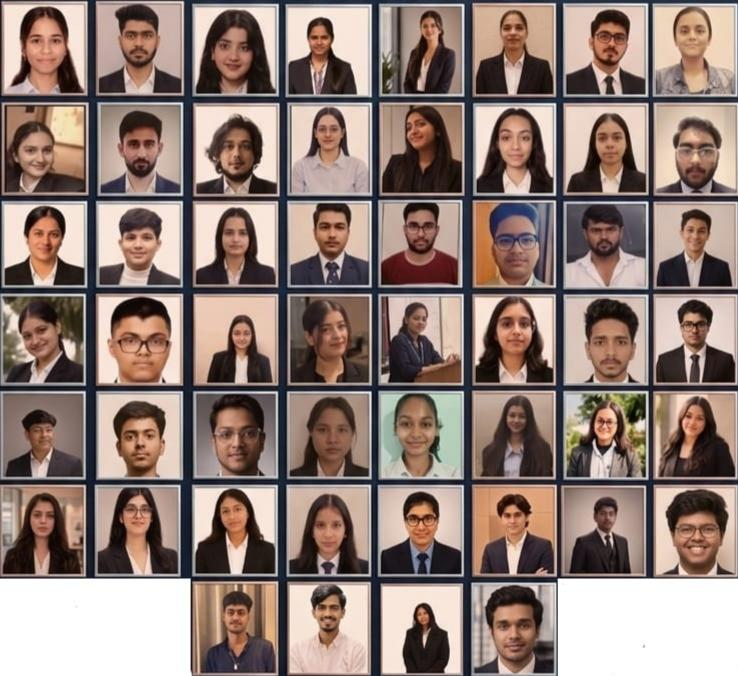
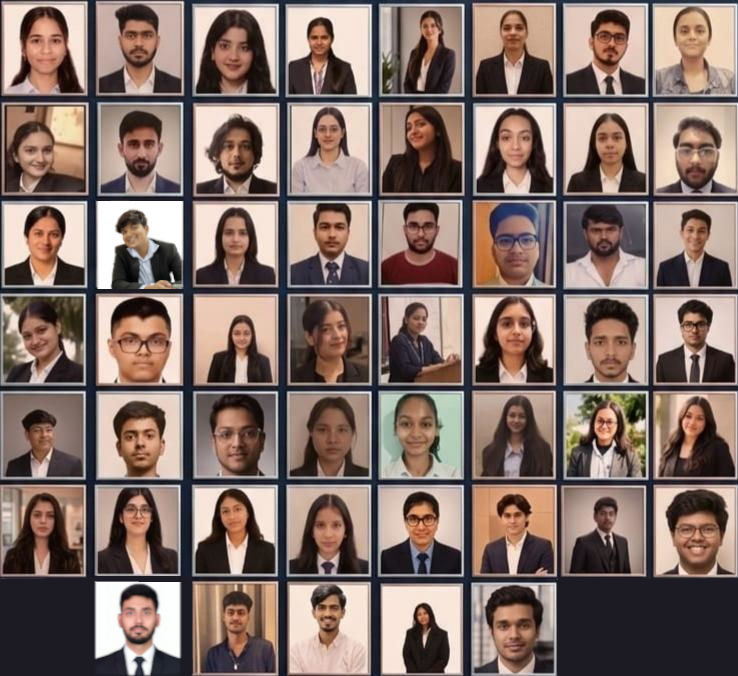
feat: revamp team pages — leadership grid, enterprise team, designations

Changed region(s): [[0.748, 0.8388, 1.0, 1.0], [0.0, 0.8388, 0.2805, 1.0], [0.1247, 0.2796, 0.2493, 0.4349]]

diff --git a/src/components/sections/about/MeetOurTeam/index.jsx b/src/components/sections/about/MeetOurTeam/index.jsx
@@ -12,19 +12,9 @@ const corporateTeam = [
     image: '/images/about/team/pk-singh.jpeg'
   },
   {
-    name: 'Adv. Gaurav Bhardwaj',
-    role: 'Board Advisor, Legal – Indus Group (Adv. Supreme Court of India)',
-    image: '/images/about/team/gaurav-bhardwaj.jpeg'
-  },
-  {
     name: 'Debdutta Ghosh',
     role: 'Group CHRO',
     image: '/images/about/team/debdutta-ghosh.jpeg'
-  },
-  {
-    name: 'Dr.Vijay Prakash Sharma',
-    role: 'Group Advisor- Business Strategy',
-    image: '/images/about/team/vijay-sharma.jpeg'
   },
   {
     name: 'Shruti Singh',
@@ -32,19 +22,30 @@ const corporateTeam = [
     image: '/images/about/team/shruti-singh.jpeg'
   },
   {
-    name: 'Dr. Tannu',
-    role: 'Advisor',
-    image: '/images/about/team/tannu.jpeg'
-  },
-  {
-    name: 'Dr. K.R. Madhar',
-    role: 'Strategic Advisor - Board',
+    name: 'Dr. K.R. Madhar (I.R.S. Retd.)',
+    role: 'Advocate, High Court, Delhi; Former Additional Commissioner of Customs and GST',
     image: '/images/about/team/kr-madhar.jpeg'
   },
   {
     name: 'Mr. Kailash Chand',
-    role: 'Strategic Board- Advisor',
+    role: 'Advocate, Former Assistant Commissioner of Customs & GST (retd.)',
     image: '/images/about/team/kailash-chand.jpeg'
+  },
+  {
+    name: 'Adv. Gaurav Bhardwaj',
+    role: 'Board Advisor, Legal (Adv. Supreme Court of India)',
+    image: '/images/about/team/gaurav-bhardwaj.jpeg'
+  },
+  {
+    name: 'Dr.Vijay Prakash Sharma',
+    role: 'Group Advisor- Business Strategy',
+    image: '/images/about/team/vijay-sharma.jpeg'
+  },
+  {
+    name: 'Dr. Tanu Manocha',
+    role: 'Strategic Board Advisor, Operations',
+    image: '/images/about/team/tannu.jpeg',
+    objectPosition: 'object-center'
   }
 ]
 
@@ -58,19 +59,19 @@ export function MeetOurTeam() {
           <div className="flex items-center justify-center gap-3 mb-4">
             <div className="w-6 h-[2px] bg-blue-600" />
             <span className="text-blue-600 text-xs font-bold tracking-[0.2em] uppercase font-heading">
-              Our Experts
+              Leadership
             </span>
           </div>
           <h2 className="text-3xl font-bold tracking-tight text-slate-900 sm:text-4xl font-heading">
-            Meet Our Team
+            Our Leadership
           </h2>
           <p className="mt-3 text-base text-slate-600 leading-relaxed">
             The dedicated experts driving operational excellence, design strategy, and market analysis across our divisions.
           </p>
         </div>
 
-        {/* Responsive Grid Structure */}
-        <div className="grid grid-cols-1 md:grid-cols-2 lg:grid-cols-3 gap-8">
+        {/* Grid Structure */}
+        <div className="grid grid-cols-4 gap-8">
           {corporateTeam.map((member) => (
             <div
               key={member.name}
@@ -82,7 +83,7 @@ export function MeetOurTeam() {
                   src={member.image}
                   alt={member.name}
                   fill
-                  className="object-cover object-top"
+                  className={`object-cover ${member.objectPosition || 'object-top'}`}
                   sizes="(max-width: 768px) 100vw, 350px"
                 />
               </div>
@@ -92,11 +93,14 @@ export function MeetOurTeam() {
                 <h3 className="text-lg font-bold text-slate-800 mb-1.5 font-heading">
                   {member.name}
                 </h3>
-                <p className="text-sm font-semibold text-blue-600 px-2 leading-relaxed">
+                <p className="text-sm font-semibold text-blue-600 px-2 leading-relaxed text-center whitespace-pre-line">
                   {member.role}
                 </p>
               </div>
             </div>
+          ))}
+          {Array.from({ length: (4 - (corporateTeam.length % 4)) % 4 }).map((_, i) => (
+            <div key={`empty-${i}`} className="rounded-2xl border border-slate-100 bg-white" />
           ))}
         </div>
 

diff --git a/src/components/sections/team/teamData.js b/src/components/sections/team/teamData.js
@@ -12,21 +12,9 @@ export const teamMembers = [
     group: 'Core Team',
   },
   {
-    name: 'Adv. Gaurav Bhardwaj',
-    role: 'Board Advisor, Legal',
-    image: '/images/team/gaurav-bhardwaj.jpg',
-    group: 'Core Team',
-  },
-  {
     name: 'Debdutta Ghosh',
     role: 'Group CHRO',
     image: '/images/team/debdutta-ghosh.jpeg',
-    group: 'Core Team',
-  },
-  {
-    name: 'Dr. Vijay Prakash Sharma',
-    role: 'Group Advisor - Business Strategy',
-    image: '/images/team/vijay-prakash-sharma.jpeg',
     group: 'Core Team',
   },
   {
@@ -36,21 +24,69 @@ export const teamMembers = [
     group: 'Core Team',
   },
   {
-    name: 'Mr. Kailash Chand',
-    role: 'Strategic Board Advisor',
-    image: '/images/team/kailash-chand.jpg',
-    group: 'Core Team',
-  },
-  {
-    name: 'Dr. K.R. Madhar',
-    role: 'Strategic Board Advisor',
+    name: 'Dr. K.R. Madhar (I.R.S. Retd.)',
+    role: 'Advocate, High Court, Delhi; Former Additional Commissioner of Customs and GST',
     image: '/images/team/kr-madhar.jpg',
     group: 'Core Team',
   },
   {
+    name: 'Mr. Kailash Chand',
+    role: 'Advocate, Former Assistant Commissioner of Customs & GST (retd.)',
+    image: '/images/team/kailash-chand.jpg',
+    group: 'Core Team',
+  },
+  {
+    name: 'Adv. Gaurav Bhardwaj',
+    role: 'Board Advisor, Legal (Adv. Supreme Court of India)',
+    image: '/images/team/gaurav-bhardwaj.jpg',
+    group: 'Core Team',
+  },
+  {
+    name: 'Dr. Vijay Prakash Sharma',
+    role: 'Group Advisor- Business Strategy',
+    image: '/images/team/vijay-prakash-sharma.jpeg',
+    group: 'Core Team',
+  },
+  {
     name: 'Dr. Tanu Manocha',
-    role: 'Academician and Strategic Board Advisor',
+    role: 'Strategic Board Advisor, Operations',
     image: '/images/team/tanu-manocha.jpeg',
     group: 'Core Team',
+  },
+  {
+    name: 'Abhishek Chaudhary',
+    role: 'Team Lead - Tech',
+    image: '/images/businesses/enterprise/team/abhishek.png',
+    group: 'Enterprise Team',
+  },
+  {
+    name: 'Moazzam Ahmed Siddiqui',
+    role: 'Team Lead - AI & ML',
+    image: '/images/businesses/enterprise/team/moazzam.png',
+    group: 'Enterprise Team',
+  },
+  {
+    name: 'Ananya Singh',
+    role: 'Team Lead - Legal',
+    image: '/images/businesses/enterprise/team/ananya.png',
+    group: 'Enterprise Team',
+  },
+  {
+    name: 'Ujjwal Rawat',
+    role: 'Team Lead - Full Stack',
+    image: '/images/businesses/enterprise/team/ujjwal.png',
+    group: 'Enterprise Team',
+  },
+  {
+    name: 'Ishu Dagar',
+    role: 'Team Lead - Digital Marketing',
+    image: '/images/businesses/enterprise/team/ishu.png',
+    group: 'Enterprise Team',
+  },
+  {
+    name: 'Adarsh Kumar Singh',
+    role: 'Team Lead - HR',
+    image: '/images/businesses/enterprise/team/adarsh.jpeg',
+    group: 'Enterprise Team',
   },
 ]

diff --git a/src/components/sections/team/TeamGrid/index.jsx b/src/components/sections/team/TeamGrid/index.jsx
@@ -1,9 +1,9 @@
-import Image from 'next/image'
 import { SectionHeading } from '@/components/ui/SectionHeading'
 import { TeamMemberCard } from '@/components/sections/team/TeamMemberCard'
 import { teamMembers } from '@/components/sections/team/teamData'
 
 const coreTeam = teamMembers.filter((m) => m.group === 'Core Team')
+const enterpriseTeam = teamMembers.filter((m) => m.group === 'Enterprise Team')
 
 export function TeamGrid() {
   return (
@@ -15,29 +15,28 @@ export function TeamGrid() {
             label="Leadership"
             title="Core Team"
           />
-          <div className="grid grid-cols-1 sm:grid-cols-2 lg:grid-cols-3 xl:grid-cols-4 gap-8">
+          <div className="grid grid-cols-4 gap-8">
             {coreTeam.map((member) => (
               <TeamMemberCard key={member.name} member={member} />
+            ))}
+            {Array.from({ length: (4 - (coreTeam.length % 4)) % 4 }).map((_, i) => (
+              <div key={`empty-${i}`} className="rounded-2xl border border-blue-100 bg-white" />
             ))}
           </div>
         </div>
       </section>
 
-      {/* Team */}
+      {/* Enterprise Team */}
       <section className="section-padding bg-blue-50">
         <div className="max-w-7xl mx-auto px-4 sm:px-6 lg:px-8">
           <SectionHeading
             label="2026 Batch"
             title="Our Team"
           />
-          <div className="flex justify-center">
-            <Image
-              src="/images/team/interns-2026.jpeg"
-              alt="Indus Group 2026 Interns"
-              width={800}
-              height={1000}
-              className="rounded-2xl shadow-lg w-full max-w-2xl"
-            />
+          <div className="grid grid-cols-3 gap-8">
+            {enterpriseTeam.map((member) => (
+              <TeamMemberCard key={member.name} member={member} />
+            ))}
           </div>
         </div>
       </section>

diff --git a/src/app/businesses/enterprise-solutions/page.jsx b/src/app/businesses/enterprise-solutions/page.jsx
@@ -13,14 +13,6 @@ const stepsData = [
   { num: '03 Step', text: 'We get together and draft a working plan to take your startup to new heights.' }
 ]
 
-const teamData = [
-  { name: 'Abhishek Chaudhary', role: 'Team Lead - Tech', image: '/images/businesses/enterprise/team/abhishek.png' },
-  { name: 'Moazzam Ahmed Siddiqui', role: 'Team Lead - AI & ML', image: '/images/businesses/enterprise/team/moazzam.png' },
-  { name: 'Ananya Singh', role: 'Team Lead-Legal', image: '/images/businesses/enterprise/team/ananya.png' },
-  { name: 'Ujjwal Rawat', role: 'Team Lead - Full Stack', image: '/images/businesses/enterprise/team/ujjwal.png' },
-  { name: 'Ayushi Upadhyay', role: 'Full Stack Developer', image: '/images/businesses/enterprise/team/ayushi.png' }
-]
-
 const servicesTableData = [
   { id: '1. Incorporation of Start-up', desc: 'Guidance on starting a business under the Start up India initiative, including strategic consulting for both new and growing start-ups.' },
   { id: '2. Corporate Compliances', desc: 'Ensuring that the company adheres to statutory regulations and requirements. This includes filing annual returns, maintaining statutory registers, and complying with corporate laws.' },
@@ -64,7 +56,7 @@ export default function EnterpriseSolutionsPage() {
         imagePosition="object-bottom"
       />
 
-      <EnterpriseIntro steps={stepsData} team={teamData} />
+      <EnterpriseIntro steps={stepsData} />
 
       <ServiceFeatures 
         heading="Our Products and Services" 

diff --git a/src/components/ui/PageHero/index.jsx b/src/components/ui/PageHero/index.jsx
@@ -3,7 +3,7 @@ import Image from 'next/image'
 import { ChevronRight } from 'lucide-react'
 import { cn } from '@/lib/utils'
 
-export function PageHero({ label, title, subtitle, breadcrumbs, backgroundImage, imagePosition = 'object-center', className }) {
+export function PageHero({ label, title, subtitle, breadcrumbs, backgroundImage, imagePosition = 'object-center', imageFit = 'object-cover', className }) {
   return (
     <section
       className={cn(
@@ -19,7 +19,7 @@ export function PageHero({ label, title, subtitle, breadcrumbs, backgroundImage,
             alt=""
             fill
             priority
-            className={cn('object-cover', imagePosition)}
+            className={cn(imageFit, imagePosition)}
           />
           <div className="absolute inset-0 bg-gradient-to-br from-[#0b1f5c]/40 via-[#1e40af]/35 to-blue-600/25 mix-blend-multiply" />
         </>

diff --git a/src/app/about/page.jsx b/src/app/about/page.jsx
@@ -3,7 +3,6 @@ import { CompanyStory } from '@/components/sections/about/CompanyStory'
 import { MeetOurTeam } from '@/components/sections/about/MeetOurTeam'
 import { MissionVision } from '@/components/sections/about/MissionVision'
 import { OurApproach } from '@/components/sections/about/OurApproach'
-import { KeyStats } from '@/components/sections/about/KeyStats'
 
 export const metadata = {
   title: 'Who We Are | The Indus Group of Co.',
@@ -21,10 +20,9 @@ export default function AboutPage() {
         breadcrumbs={[{ label: 'Who We Are' }]}
       />
       <CompanyStory />
-      <MeetOurTeam />
       <MissionVision />
+      <MeetOurTeam />
       <OurApproach />
-      <KeyStats />
     </>
   )
 }

diff --git a/src/components/sections/careers/OpenPositions/index.jsx b/src/components/sections/careers/OpenPositions/index.jsx
@@ -6,9 +6,9 @@ import { ArrowRight } from 'lucide-react'
 
 const jobs = [
   {
-    title: 'Telecallers',
-    department: 'Sales',
-    description: 'Grow client relations, manage incoming inquiries, and coordinate sales pipelines over the phone.',
+    title: 'Trainer / Faculty',
+    department: 'Skill Development',
+    description: 'Deliver engaging training sessions, develop course material, and mentor learners across our skill development and certification programs.',
   },
   {
     title: 'Freelancers',

diff --git a/src/app/meet-our-team/page.jsx b/src/app/meet-our-team/page.jsx
@@ -14,6 +14,8 @@ export default function MeetOurTeamPage() {
         title="Meet Our Team"
         subtitle="The passionate individuals behind The Indus Group of Co."
         breadcrumbs={[{ label: 'Meet Our Team' }]}
+        backgroundImage="/images/team/interns-2026-grid.png"
+        imagePosition="object-center"
       />
       <TeamGrid />
     </>
